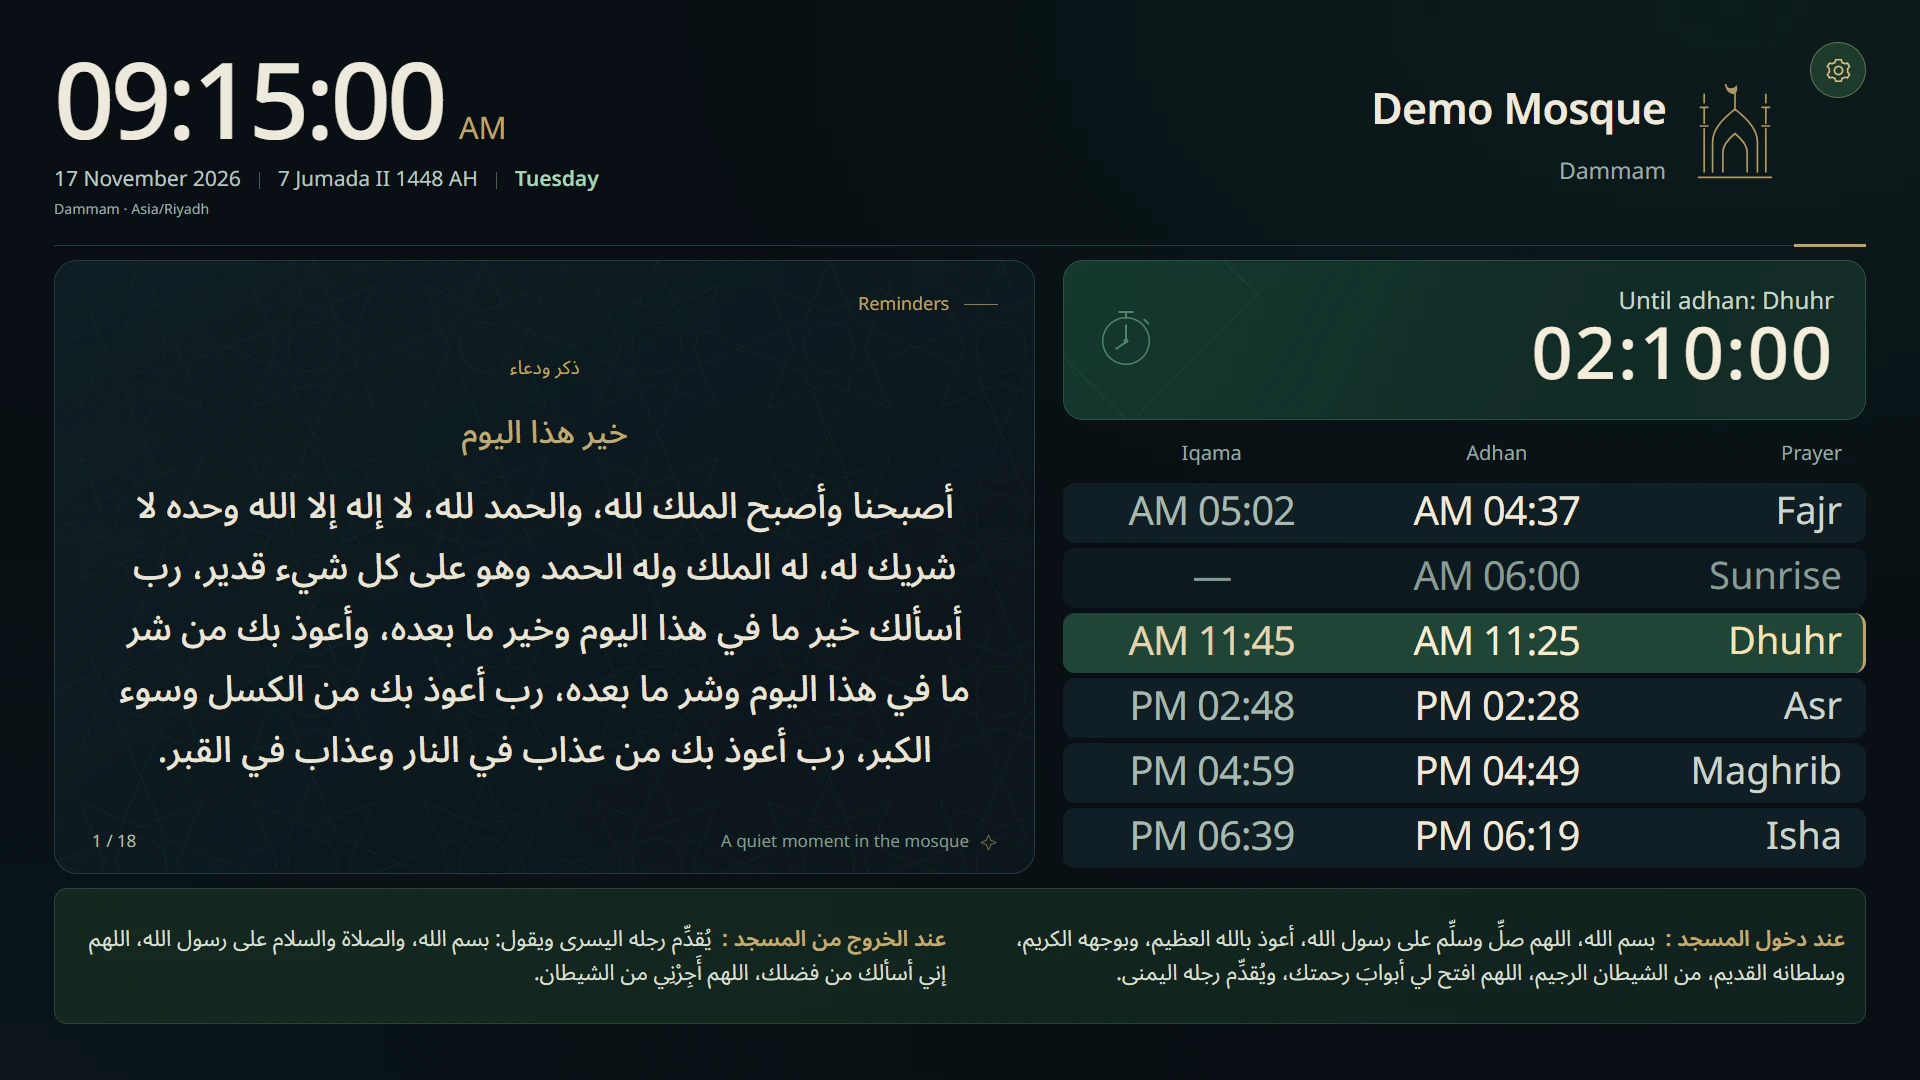
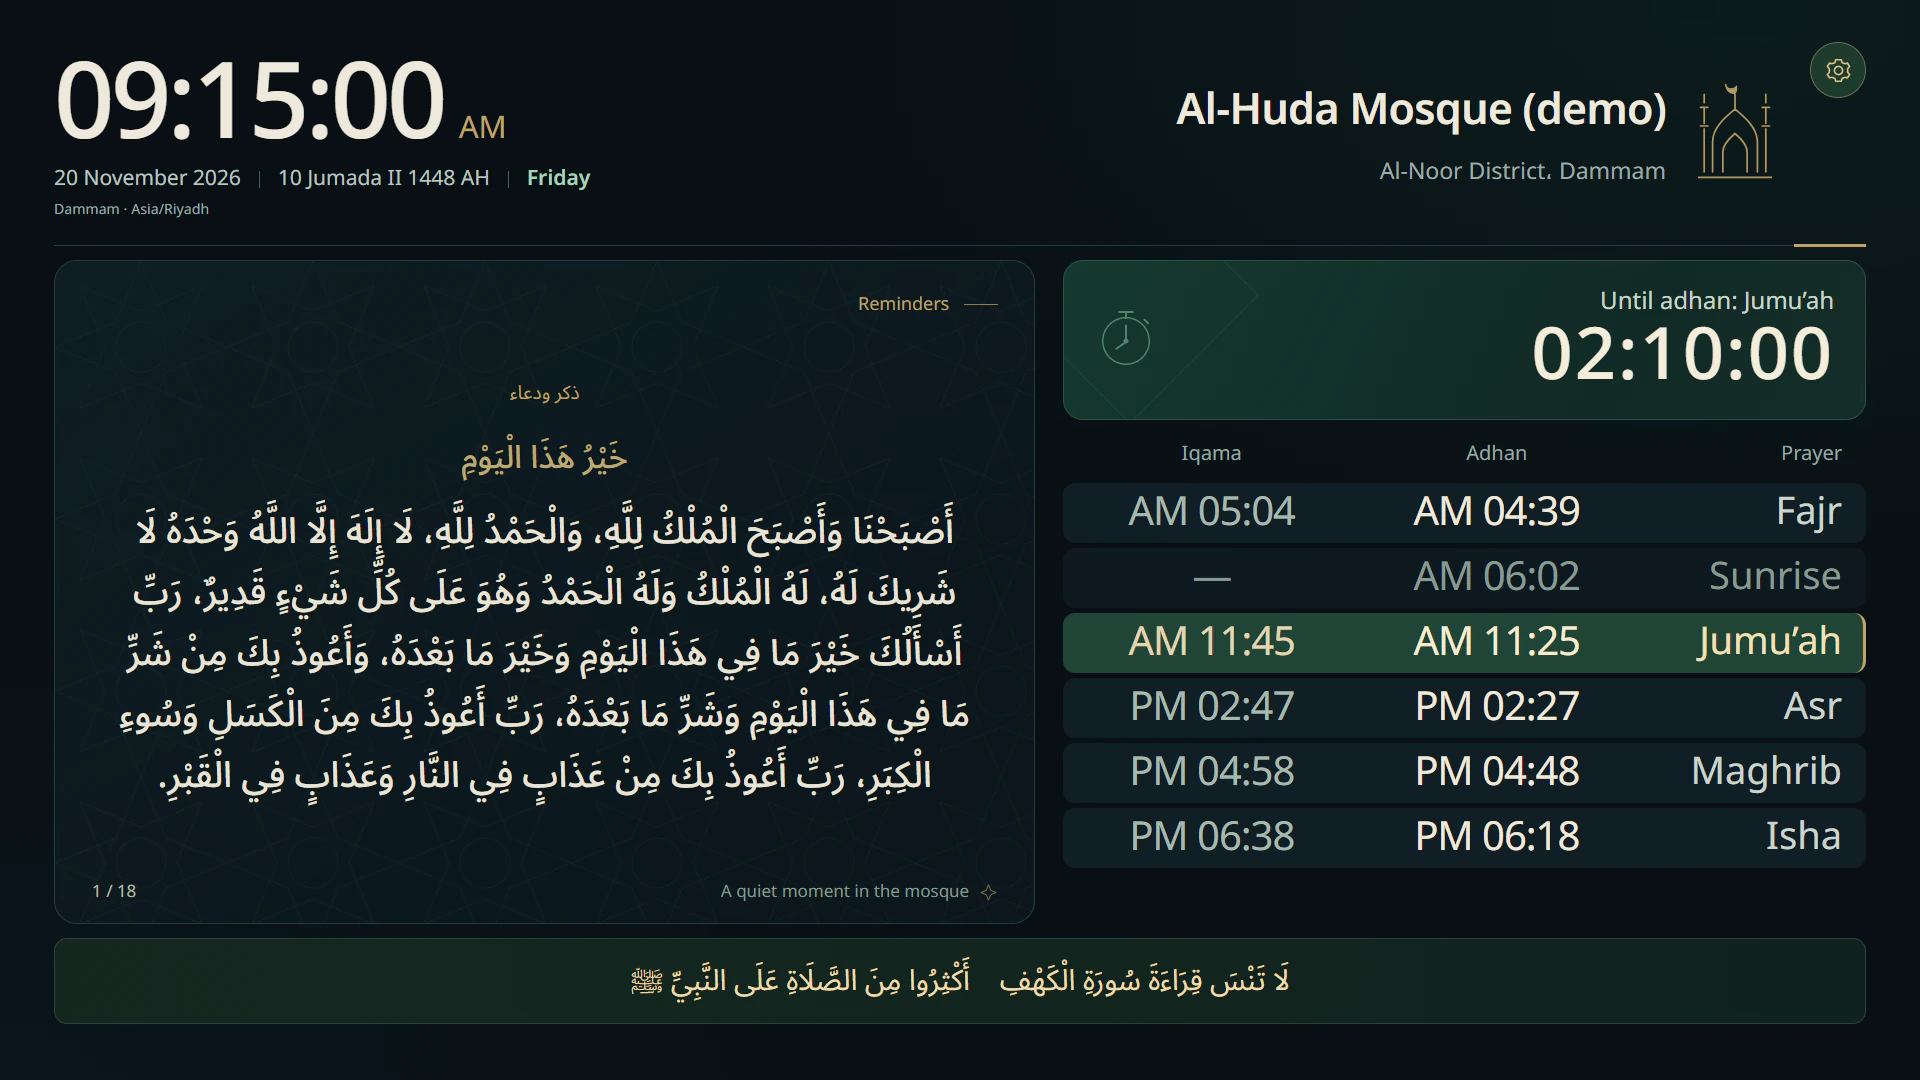
Refresh README previews from v2.5.1 and show the phone settings editor

diff --git a/README.md b/README.md
@@ -40,11 +40,11 @@
 
 <a id="screenshots"></a>
 
-> 🖼 هذه معاينات لواجهة الإصدار 2.3.2 في المتصفح ببيانات توضيحية، مع محاكاة خيارات Android في مركز التحكم. يمكنك التبديل بين العربية والإنجليزية مع بقاء الأذكار والآيات بالعربية.
+> 🖼 تعرض اللقطات واجهة **شاشة الجامع v2.5.1** في المتصفح ببيانات جامع توضيحية، مع محاكاة خيارات Android في مركز التحكم. يمكنك التبديل بين العربية والإنجليزية مع بقاء الأذكار والآيات بالعربية. اضغط على صورة لتكبيرها. [لقطة تعديل الإعدادات من الجوال](#phone-settings-preview)
 
-| الواجهة الرئيسية (بالعربية) | وضع الصلاة «أقيموا صفوفكم» | مركز التحكم الجانبي |
+| الشاشة الرئيسية صباح الجمعة | وضع الصلاة وتنبيه الجوالات | مركز التحكم الجانبي |
 | :---: | :---: | :---: |
-| [![الساعة ومواقيت الصلاة بالعربية](docs/images/display-ar.webp)](docs/images/display-ar.webp) | [![عبارة أقيموا صفوفكم على خلفية سوداء](docs/images/prayer-mode.webp)](docs/images/prayer-mode.webp) | [![مركز التحكم الجانبي](docs/images/control-center-ar.webp)](docs/images/control-center-ar.webp) |
+| [![الساعة وجدول المواقيت والعد التنازلي لصلاة الجمعة](docs/images/display-ar.webp)](docs/images/display-ar.webp) | [![عبارة أقيموا صفوفكم وتذكير بإغلاق الجوالات على خلفية سوداء](docs/images/prayer-mode.webp)](docs/images/prayer-mode.webp) | [![قائمة مركز التحكم مفتوحة بجانب جدول الصلاة](docs/images/control-center-ar.webp)](docs/images/control-center-ar.webp) |
 
 ---
 
@@ -131,6 +131,12 @@
    * **الإعدادات** لتعديل الاسم والحي، وإضافة إعلانات الشريط وترتيبها، وضبط المواقيت والإقامة والساعة والتنبيهات، وتصدير نسخة من الإعدادات أو استعادتها.
 
 4. اختر **حفظ وتطبيق على الشاشة** لإرسال التعديلات دفعة واحدة. ينتهي الاتصال عند إغلاق نافذة الاقتران على التلفزيون أو انتهاء مهلة الجلسة. [دليل التحكم من الجوال](docs/CONTROL_CENTER_AR.md)
+
+<a id="phone-settings-preview"></a>
+
+<p align="center">
+  <a href="docs/images/phone-settings.webp"><img src="docs/images/phone-settings.webp" width="360" alt="تعديل اسم الجامع والحي وإعلان الدرس الأسبوعي في تبويب الإعدادات على الجوال، مع زر حفظ وتطبيق على الشاشة"></a>
+</p>
 
 ---
 

diff --git a/README_EN.md b/README_EN.md
@@ -39,11 +39,11 @@ Mosque TV is a free, silent app for **Android TV and Google TV** in mosques and 
 
 <a id="screenshots"></a>
 
-> 🖼 These browser previews show v2.3.2 with sample data. The control centre preview simulates Android options. You can switch the interface between English and Arabic. Duas, adhkar and Qur’anic verses stay in Arabic.
+> 🖼 These browser captures show **Mosque TV v2.5.1** with a sample mosque profile and simulated Android options in the control centre. You can switch the interface between English and Arabic. Duas, adhkar and Qur’anic verses stay in Arabic. Select an image to enlarge it. [Phone settings screenshot](#phone-settings-preview)
 
-| Main display in Arabic | “Straighten your rows” prayer screen | Control centre |
+| Friday morning display | Prayer mode and phone reminder | Control centre (Arabic) |
 | :---: | :---: | :---: |
-| [![Clock and prayer timetable in Arabic](docs/images/display-ar.webp)](docs/images/display-ar.webp) | [![أقيموا صفوفكم on a black background](docs/images/prayer-mode.webp)](docs/images/prayer-mode.webp) | [![Control centre open at the side of the display](docs/images/control-center-ar.webp)](docs/images/control-center-ar.webp) |
+| [![Clock, prayer timetable and Jumu’ah countdown in English](docs/images/display-en.webp)](docs/images/display-en.webp) | [![“Straighten your rows” and a reminder to silence phones, in Arabic on a black background](docs/images/prayer-mode.webp)](docs/images/prayer-mode.webp) | [![Control centre open beside the prayer timetable](docs/images/control-center-ar.webp)](docs/images/control-center-ar.webp) |
 
 ---
 
@@ -130,6 +130,12 @@ Use your phone’s keyboard to enter text or edit an announcement.
    * **Settings** lets you edit the mosque name and neighbourhood, add or reorder announcements, adjust prayer and iqama times, set the clock format and alerts, and export or restore a settings backup.
 
 4. Tap **Save & Apply to TV** to send the changes together. The session ends when you close the pairing window on the TV or when the session times out. [Phone controls guide (Arabic)](docs/CONTROL_CENTER_AR.md)
+
+<a id="phone-settings-preview"></a>
+
+<p align="center">
+  <a href="docs/images/phone-settings-en.webp"><img src="docs/images/phone-settings-en.webp" width="360" alt="Editing the mosque name, neighbourhood and weekly lesson announcement on a phone, with the Save &amp; Apply to TV button below"></a>
+</p>
 
 ---
 
